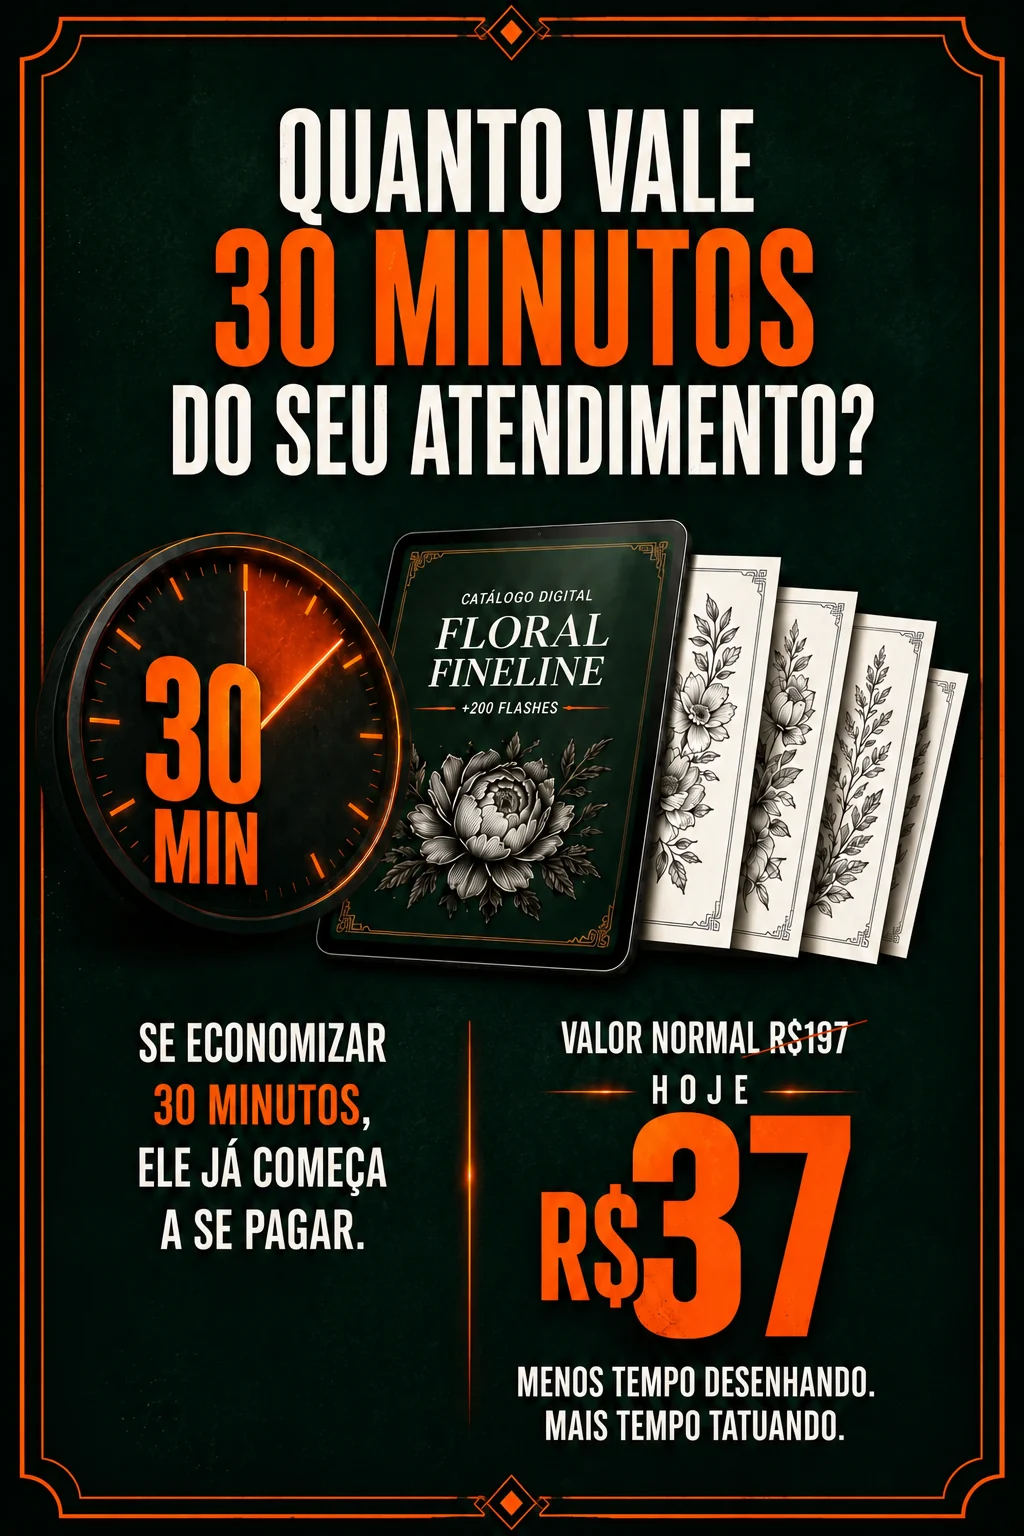
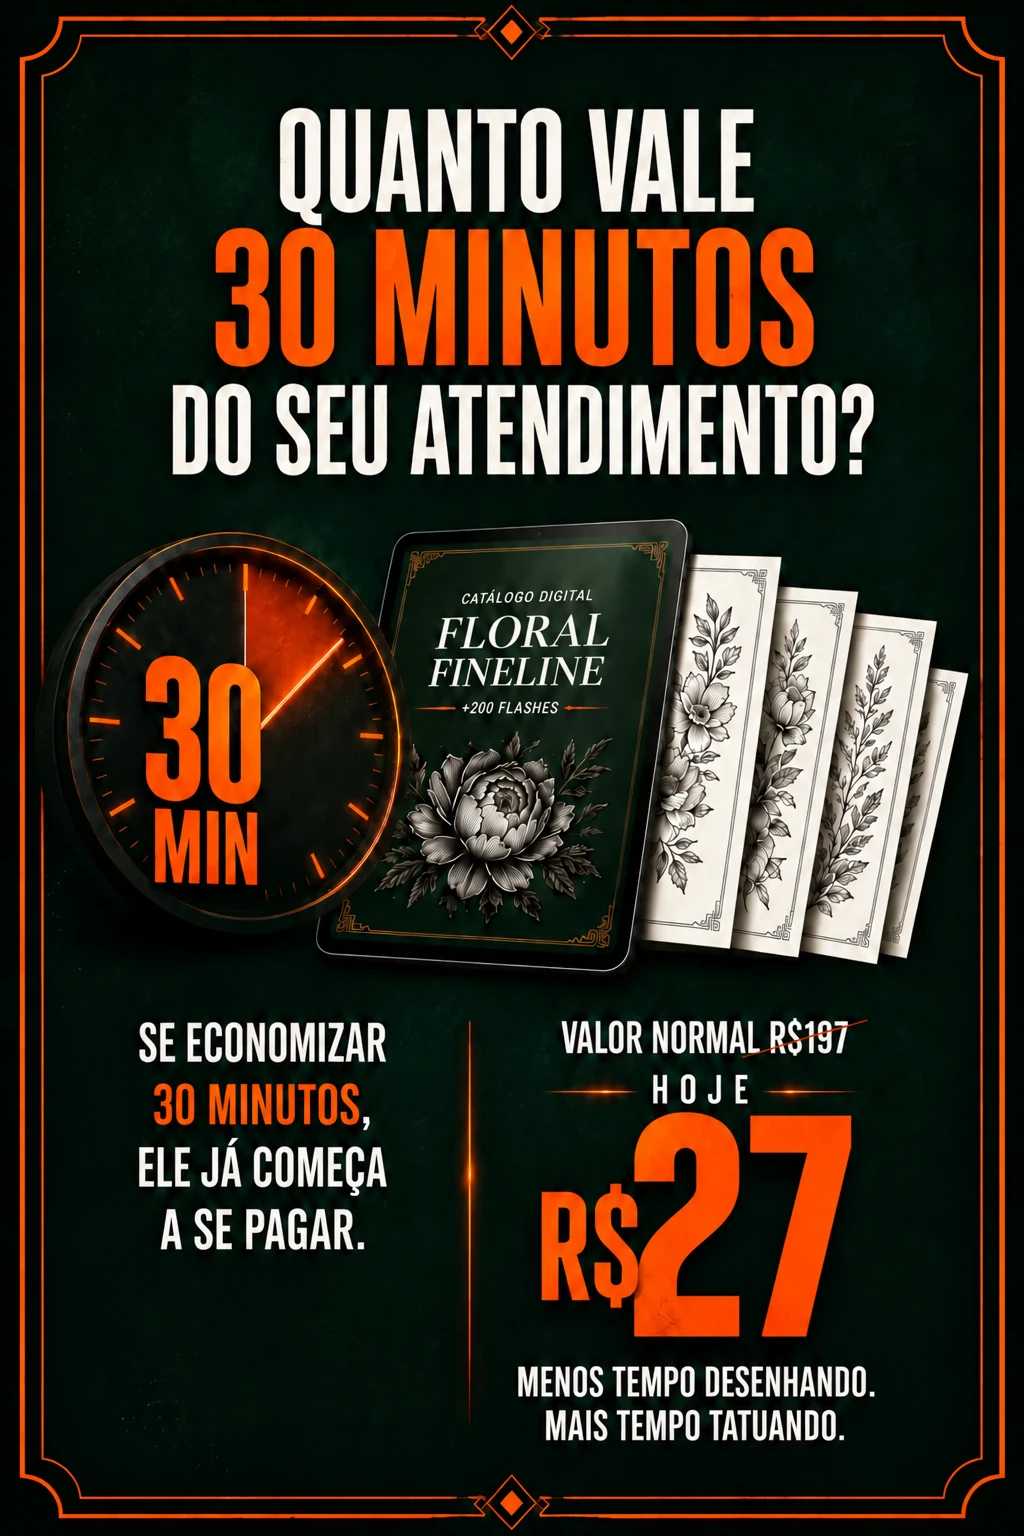
Atualiza preço da oferta para R$ 27,90 em texto e artes

diff --git a/app/page.tsx b/app/page.tsx
@@ -47,7 +47,7 @@ export default function Home() {
       <h1><span><em>+200</em> flashes Florais</span><strong>Fineline</strong></h1>
       <p className="lead white">Prontos para mostrar. A cliente escolhe. A sessão começa.</p>
       <p className="sublead">Um PDF com mais de 200 artes florais delicadas para apresentar às suas clientes, acelerar a decisão e parar de desenhar do zero em todo atendimento.</p>
-      <div className="price"><b>por <em>R$ 37,90</em></b><span>pagamento único</span></div>
+      <div className="price"><b>por <em>R$ 27,90</em></b><span>pagamento único</span></div>
       <Button>Quero acessar os +200 flashes agora</Button><p className="secure">Compra segura via Kirvano · Acesso liberado na hora</p>
     </div></header>
 
@@ -75,7 +75,7 @@ export default function Home() {
     <section className="section"><div className="narrow"><h2 className="center">Talvez você esteja pensando...</h2><div className="objections">{objections.map(([src,title,text]) => <article key={title}><Picture src={src} alt={title} size="small"/><h3>{title}</h3><p>{text}</p></article>)}</div><Button>Quero garantir meus +200 flashes</Button></div></section>
 
 
-    <section className="section offer center"><div className="narrow"><h2>Faça a conta</h2><Picture src="quanto-vale-30min-v2.webp" alt="Quanto vale 30 minutos do seu atendimento: acervo por R$ 37,90"/><p>Se o acervo economizar 30 minutos em um único atendimento, ele já se pagou. Em um mês, são horas devolvidas para tatuar mais, ou simplesmente para sair mais cedo do estúdio.</p><div className="price"><b>por <em>R$ 37,90</em></b><span>pagamento único</span></div><Button>Quero garantir meus +200 flashes</Button><p className="secure">Compra segura via Kirvano · Acesso imediato</p></div></section>
+    <section className="section offer center"><div className="narrow"><h2>Faça a conta</h2><Picture src="quanto-vale-30min-v2.webp" alt="Quanto vale 30 minutos do seu atendimento: acervo por R$ 27,90"/><p>Se o acervo economizar 30 minutos em um único atendimento, ele já se pagou. Em um mês, são horas devolvidas para tatuar mais, ou simplesmente para sair mais cedo do estúdio.</p><div className="price"><b>por <em>R$ 27,90</em></b><span>pagamento único</span></div><Button>Quero garantir meus +200 flashes</Button><p className="secure">Compra segura via Kirvano · Acesso imediato</p></div></section>
 
 
     <section className="section center"><div className="narrow"><div className="guarantee"><strong>7</strong><span>dias</span></div><h2>Risco zero para você</h2><p>Você tem 7 dias para abrir o material, usar nos atendimentos e decidir. Se não fizer sentido para o seu estúdio, pede o reembolso direto pela Kirvano e recebe tudo de volta.</p><Button>Quero testar sem risco</Button></div></section>
@@ -84,7 +84,6 @@ export default function Home() {
     <section className="section alt"><div className="narrow"><h2 className="center">Ainda tem dúvidas?</h2><details><summary>Como recebo o material?</summary><p>Por e-mail, logo após a confirmação do pagamento, com acesso pela área de membros da Kirvano.</p></details><details><summary>Funciona no celular?</summary><p>Sim. É um PDF comum, abre em qualquer aparelho.</p></details><details><summary>Posso usar em quantas clientes quiser?</summary><p>Sim, o acervo é seu para usar nos atendimentos do seu estúdio.</p></details><details><summary>O pagamento é seguro?</summary><p>Sim, todo o processo é feito pela Kirvano, com os meios de pagamento disponíveis no checkout.</p></details></div></section>
 
 
-    <section className="section final center"><div className="narrow"><Picture src="cta-final-v2.webp" alt="+200 flashes florais fineline por R$ 37,90"/><h2>Pare de começar do zero no próximo atendimento</h2><p className="sublead">Mais de 200 flashes florais fineline, acesso imediato, por R$ 37,90.</p><Button>Quero acessar os +200 flashes agora</Button><p className="secure">Compra segura via Kirvano</p></div></section><footer>© 2026 · Todos os direitos reservados</footer>
+    <section className="section final center"><div className="narrow"><Picture src="cta-final-v2.webp" alt="+200 flashes florais fineline por R$ 27,90"/><h2>Pare de começar do zero no próximo atendimento</h2><p className="sublead">Mais de 200 flashes florais fineline, acesso imediato, por R$ 27,90.</p><Button>Quero acessar os +200 flashes agora</Button><p className="secure">Compra segura via Kirvano</p></div></section><footer>© 2026 · Todos os direitos reservados</footer>
   </main>;
 }
-

diff --git a/app/layout.tsx b/app/layout.tsx
@@ -7,8 +7,8 @@ const anton = Anton({ weight: '400', subsets: ['latin'], variable: '--font-anton
 const jost = Jost({ subsets: ['latin'], variable: '--font-jost', display: 'swap' });
 export const metadata: Metadata = {
   metadataBase: new URL('https://200-flashes.pages.dev'),
-  title: '+200 Flashes Florais Fineline — R$ 37,90',
-  description: 'Mais de 200 flashes florais fineline em PDF para tatuadores. Acesso imediato por R$ 37,90.',
+  title: '+200 Flashes Florais Fineline — R$ 27,90',
+  description: 'Mais de 200 flashes florais fineline em PDF para tatuadores. Acesso imediato por R$ 27,90.',
   openGraph: { title: '+200 Flashes Florais Fineline', description: 'Acervo pronto para tatuadores.', images: ['/og.jpg'] },
   twitter: { card: 'summary_large_image', title: '+200 Flashes Florais Fineline', description: 'Acervo pronto para tatuadores.', images: ['/og.jpg'] },
 };
@@ -23,4 +23,3 @@ export default function RootLayout({ children }: Readonly<{ children: React.Reac
     <script id="microsoft-clarity-bootstrap" dangerouslySetInnerHTML={{ __html: '(function(){function loadClarity(){var t=document.createElement("script");t.async=true;t.src="https://www.clarity.ms/tag/yggu5wubv7";document.head.appendChild(t);}window.clarity=window.clarity||function(){(window.clarity.q=window.clarity.q||[]).push(arguments);};function schedule(){if(window.requestIdleCallback){window.requestIdleCallback(loadClarity,{timeout:2000});}else{setTimeout(loadClarity,0);}}if(document.readyState==="complete"){schedule();}else{window.addEventListener("load",schedule,{once:true});}})();' }} />
   </body></html>;
 }
-
